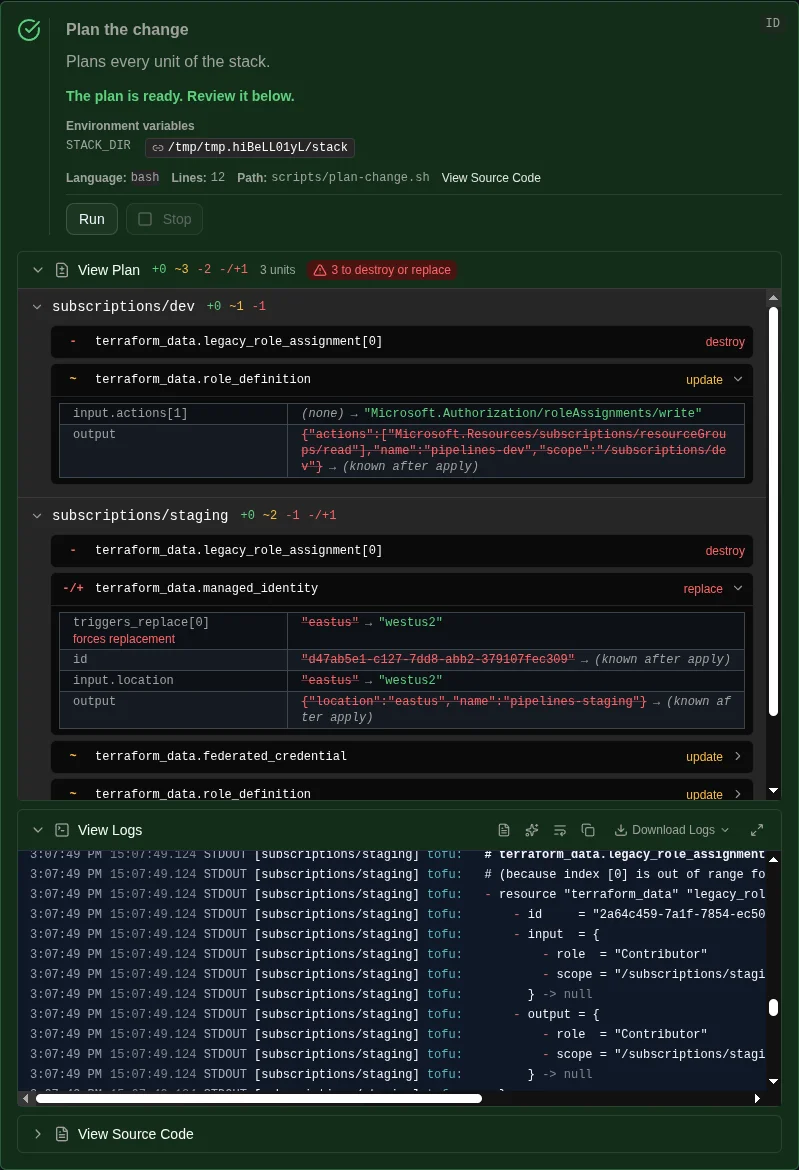
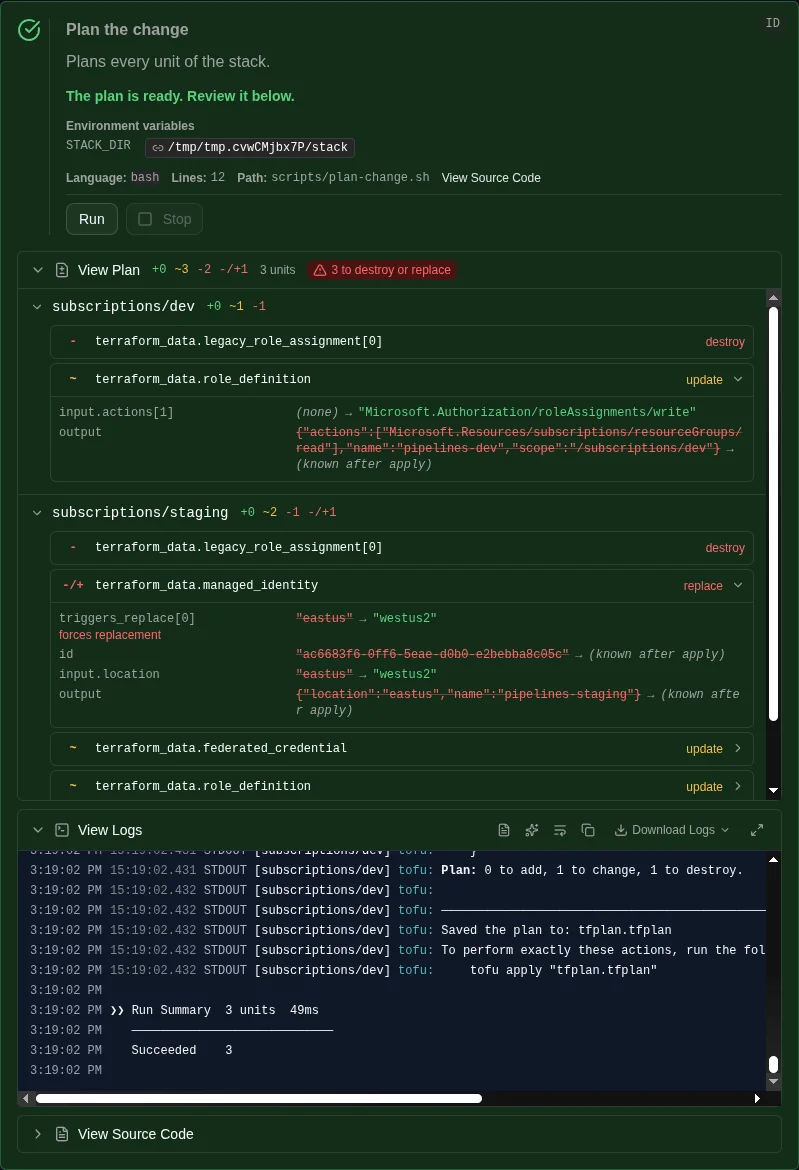
fix: let the block's status color show through the View Plan panel

diff --git a/web/src/components/mdx/_shared/components/ViewPlan.tsx b/web/src/components/mdx/_shared/components/ViewPlan.tsx
@@ -78,7 +78,7 @@ export function ViewPlan({ plan }: ViewPlanProps) {
       </button>
 
       {open && (
-        <div className="border-t border-border bg-muted max-h-[32rem] overflow-y-auto">
+        <div className="border-t border-border max-h-[32rem] overflow-y-auto">
           {changed.map((unit) => (
             <UnitSection
               key={unit.name}
@@ -195,7 +195,7 @@ function UnitSection({ unit, defaultOpen }: { unit: PlanUnit; defaultOpen: boole
           </span>
         )}
         {unit.result === "excluded" && (
-          <span className="rounded-sm bg-background px-1.5 py-0.5 text-xs text-muted-foreground">
+          <span className="rounded-sm border border-border px-1.5 py-0.5 text-xs text-muted-foreground">
             excluded
           </span>
         )}
@@ -249,7 +249,7 @@ function ResourceRow({ resource }: { resource: PlanResourceChange }) {
   const style = ACTION_STYLE[resource.action]
   const expandable = resource.attributes.length > 0
   return (
-    <div className="rounded-sm border border-border bg-background">
+    <div className="rounded-sm border border-border">
       <button
         onClick={() => expandable && setOpen(!open)}
         className={cn(
@@ -287,13 +287,11 @@ function ResourceRow({ resource }: { resource: PlanResourceChange }) {
       </button>
       {open && (
         <div className="border-t border-border px-2 py-1.5">
-          <table className="w-full table-fixed font-mono text-xs">
-            <tbody>
-              {resource.attributes.map((attribute) => (
-                <AttributeRow key={attribute.path} attribute={attribute} action={resource.action} />
-              ))}
-            </tbody>
-          </table>
+          <div className="grid grid-cols-[minmax(0,1fr)_minmax(0,2fr)] gap-x-3 font-mono text-xs">
+            {resource.attributes.map((attribute) => (
+              <AttributeRow key={attribute.path} attribute={attribute} action={resource.action} />
+            ))}
+          </div>
           {!!resource.omittedAttributes && (
             <p className="pt-1 text-xs text-muted-foreground">
               …and {resource.omittedAttributes} more attributes. The log has the full plan.
@@ -314,14 +312,14 @@ function AttributeRow({
 }) {
   const showBefore = action !== "create"
   return (
-    <tr className="align-top">
-      <td className="w-1/3 break-all py-0.5 pr-3 text-muted-foreground">
+    <>
+      <div className="break-all py-0.5 text-muted-foreground">
         {attribute.path}
         {attribute.forcesReplacement && (
           <span className="block font-sans text-destructive">forces replacement</span>
         )}
-      </td>
-      <td className="break-all py-0.5">
+      </div>
+      <div className="break-all py-0.5">
         {attribute.sensitive ? (
           <span className="italic text-muted-foreground">(sensitive value)</span>
         ) : (
@@ -347,7 +345,7 @@ function AttributeRow({
             )}
           </>
         )}
-      </td>
-    </tr>
+      </div>
+    </>
   )
 }
